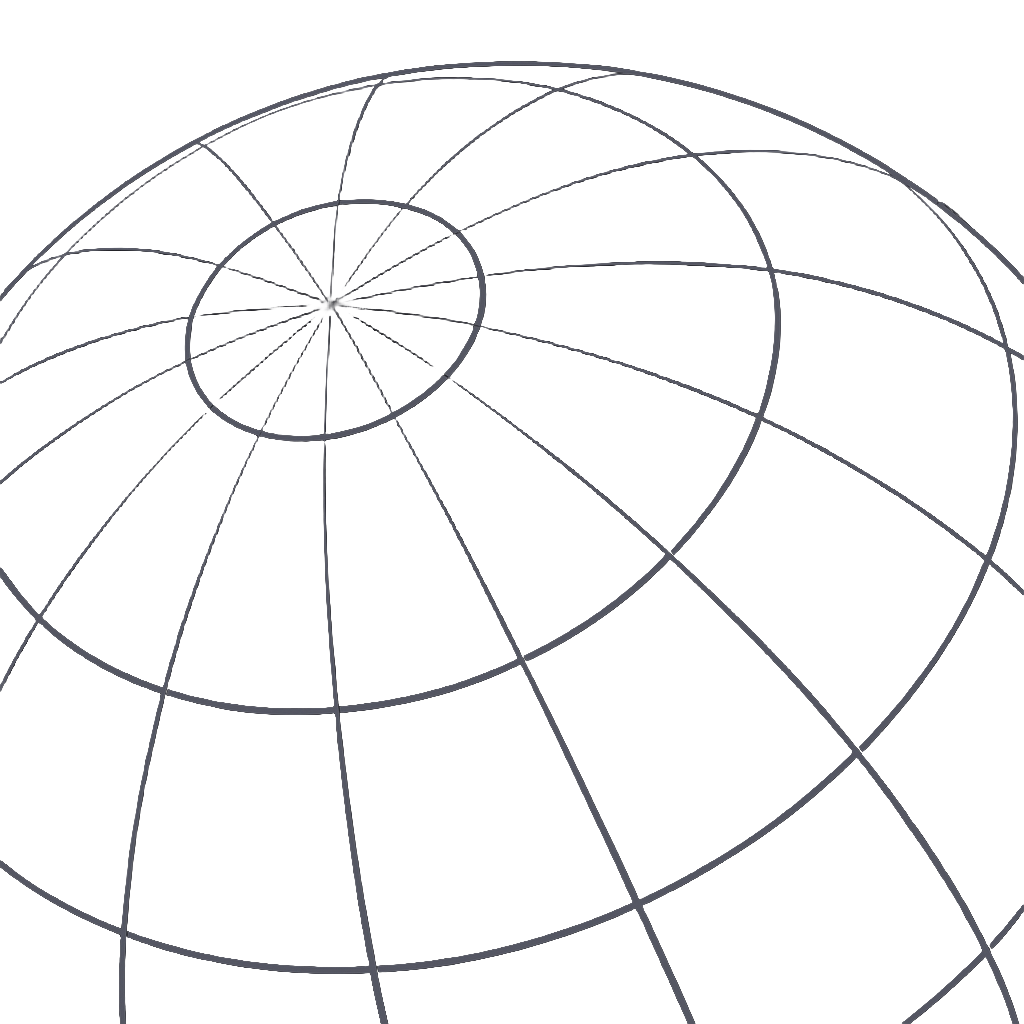
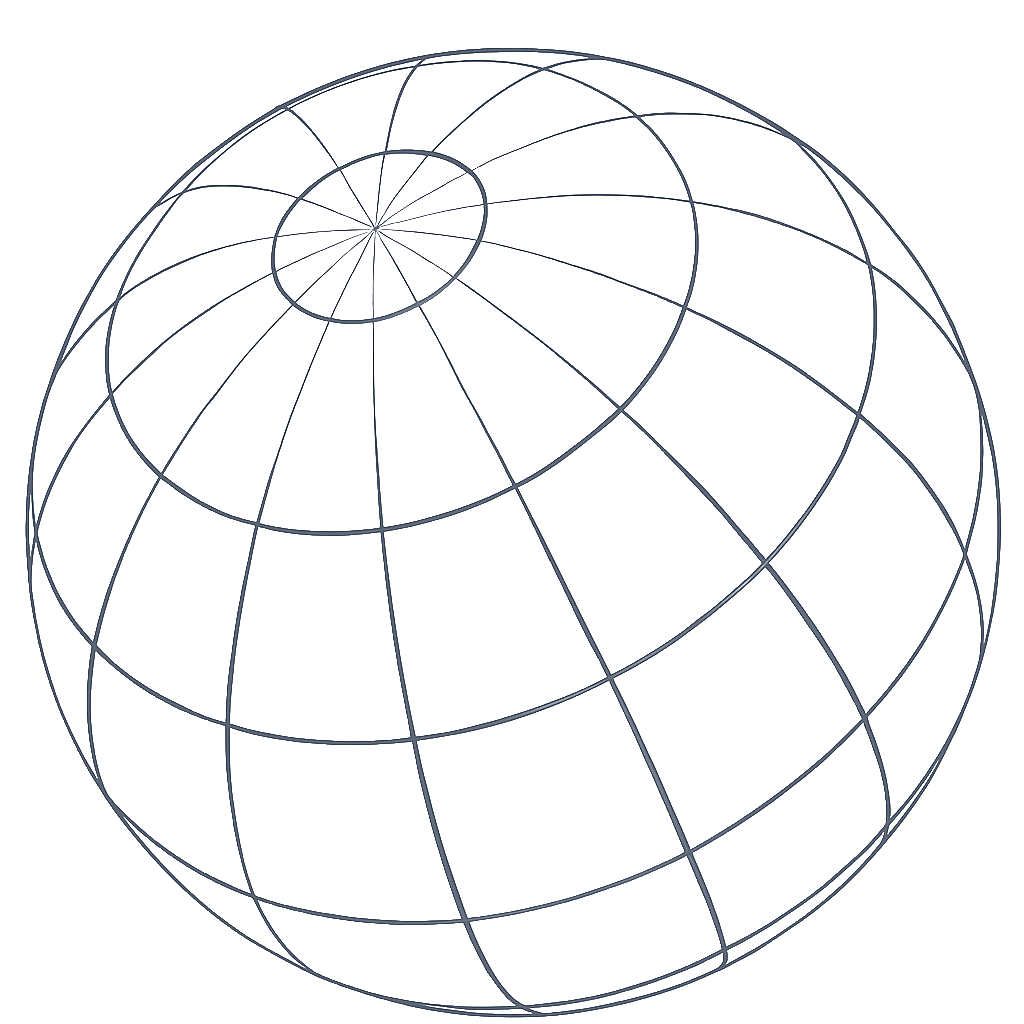
globe png

diff --git a/styles.css b/styles.css
@@ -1999,7 +1999,7 @@ body::-webkit-scrollbar {
 .globe-img {
     width: 100%;
     height: 100%;
-    opacity: 0.2;
+    opacity: 1;
 
     transition: transform 1s ease-out; 
 }
